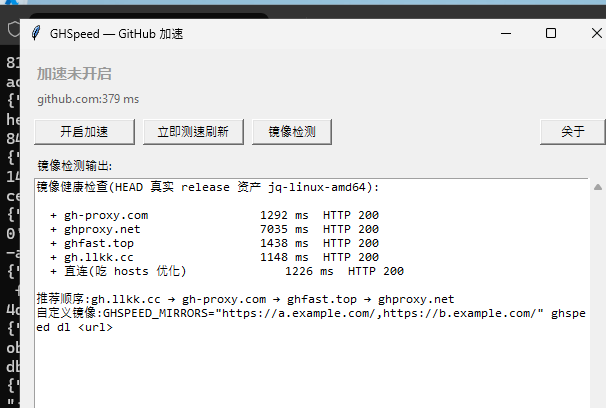
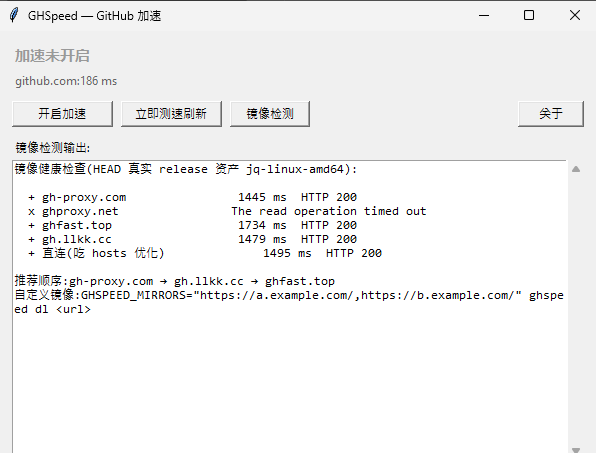
v0.1.1:引擎内置版本号同步;README 收录 Windows 真机截图

diff --git a/menubar.swift b/menubar.swift
@@ -228,7 +228,7 @@ final class AppDelegate: NSObject, NSApplicationDelegate, NSMenuDelegate {
             DispatchQueue.main.async {
                 if ms >= 0 {
                     self.latencyLine.title = "github.com:\(ms) ms"
-                } else if self.hostsOn().on {
+                } else if hostsOn().on {
                     // 已开启还不通 = 坏窗口(TLS 整段被丢),不是没加速
                     self.latencyLine.title = "github.com:链路波动中(通常几分钟内自动恢复)"
                     self.autoHealIfNeeded()

diff --git a/ghspeed.py b/ghspeed.py
@@ -79,9 +79,9 @@ REFRESH_INTERVAL = 1800  # 秒
 try:
     with open(os.path.join(os.path.dirname(os.path.abspath(__file__)),
                            "VERSION")) as _f:
-        __version__ = _f.read().strip() or "0.1.0"
+        __version__ = _f.read().strip() or "0.1.1"
 except Exception:
-    __version__ = "0.1.0"
+    __version__ = "0.1.1"
 
 # 只处理这些 GitHub 域名,一个都不多
 DOMAINS = [
